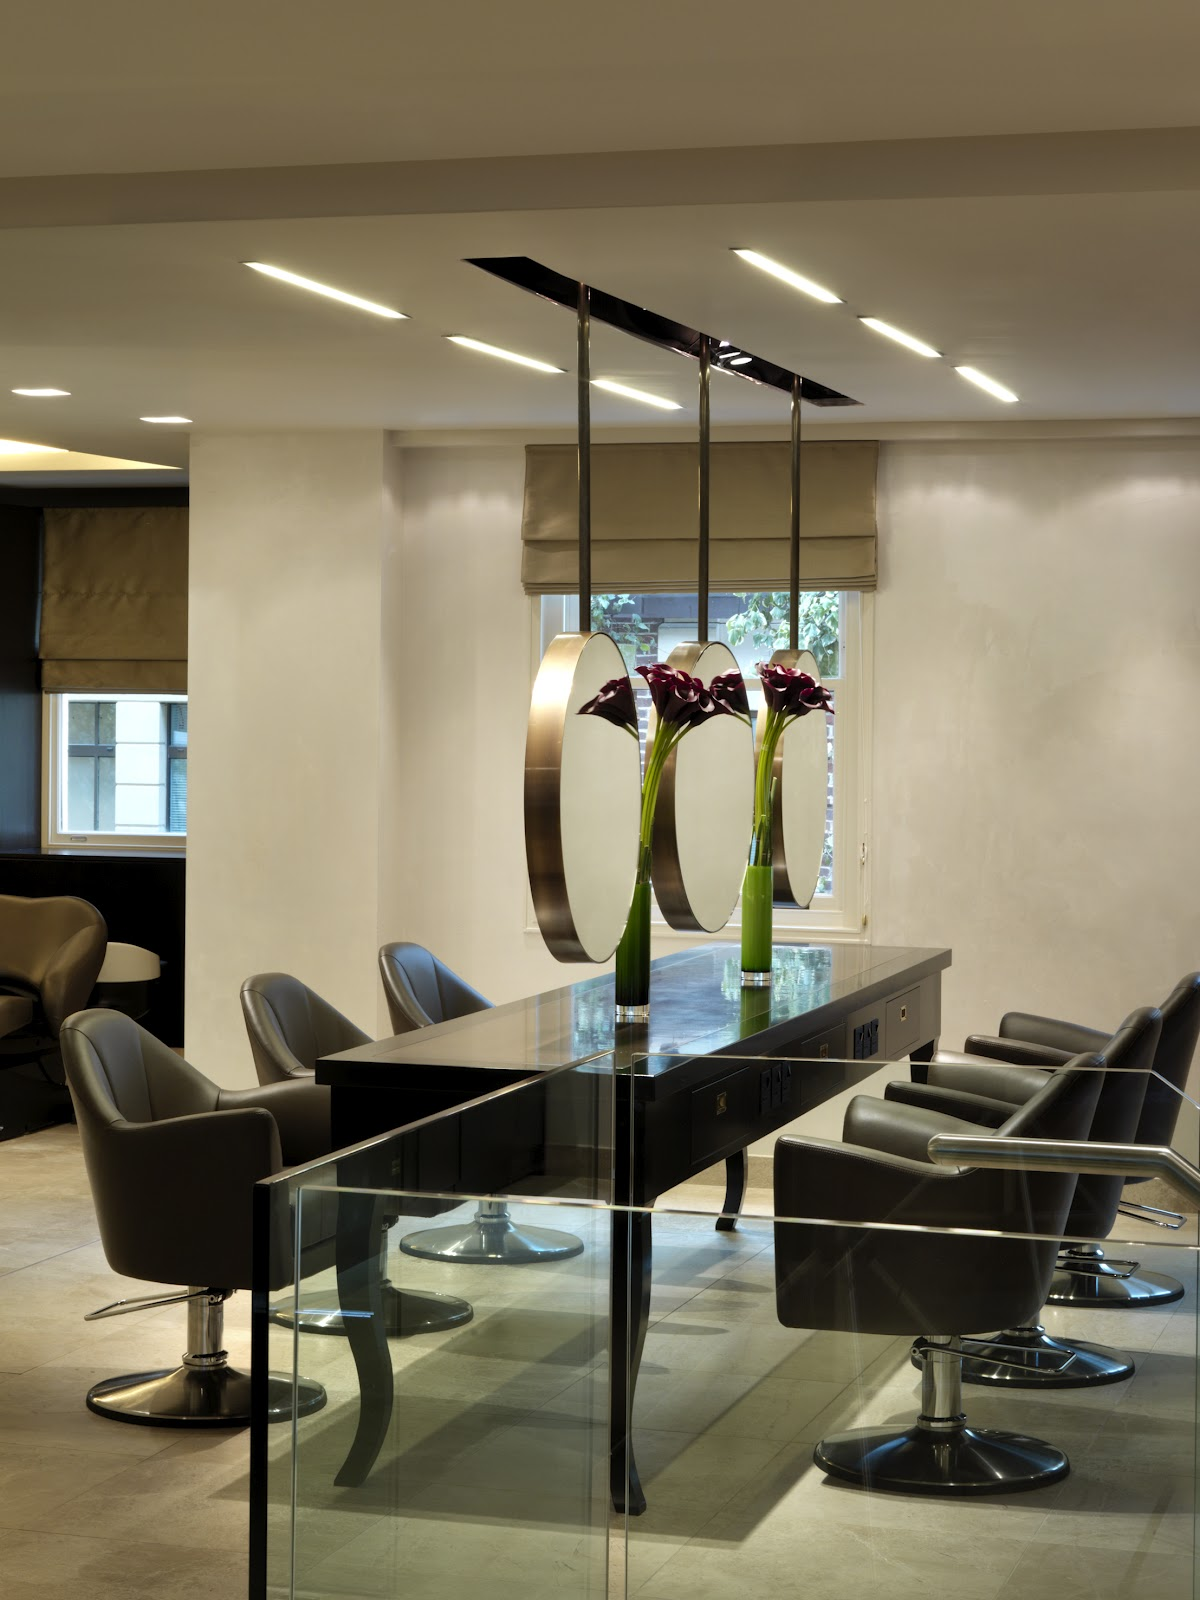
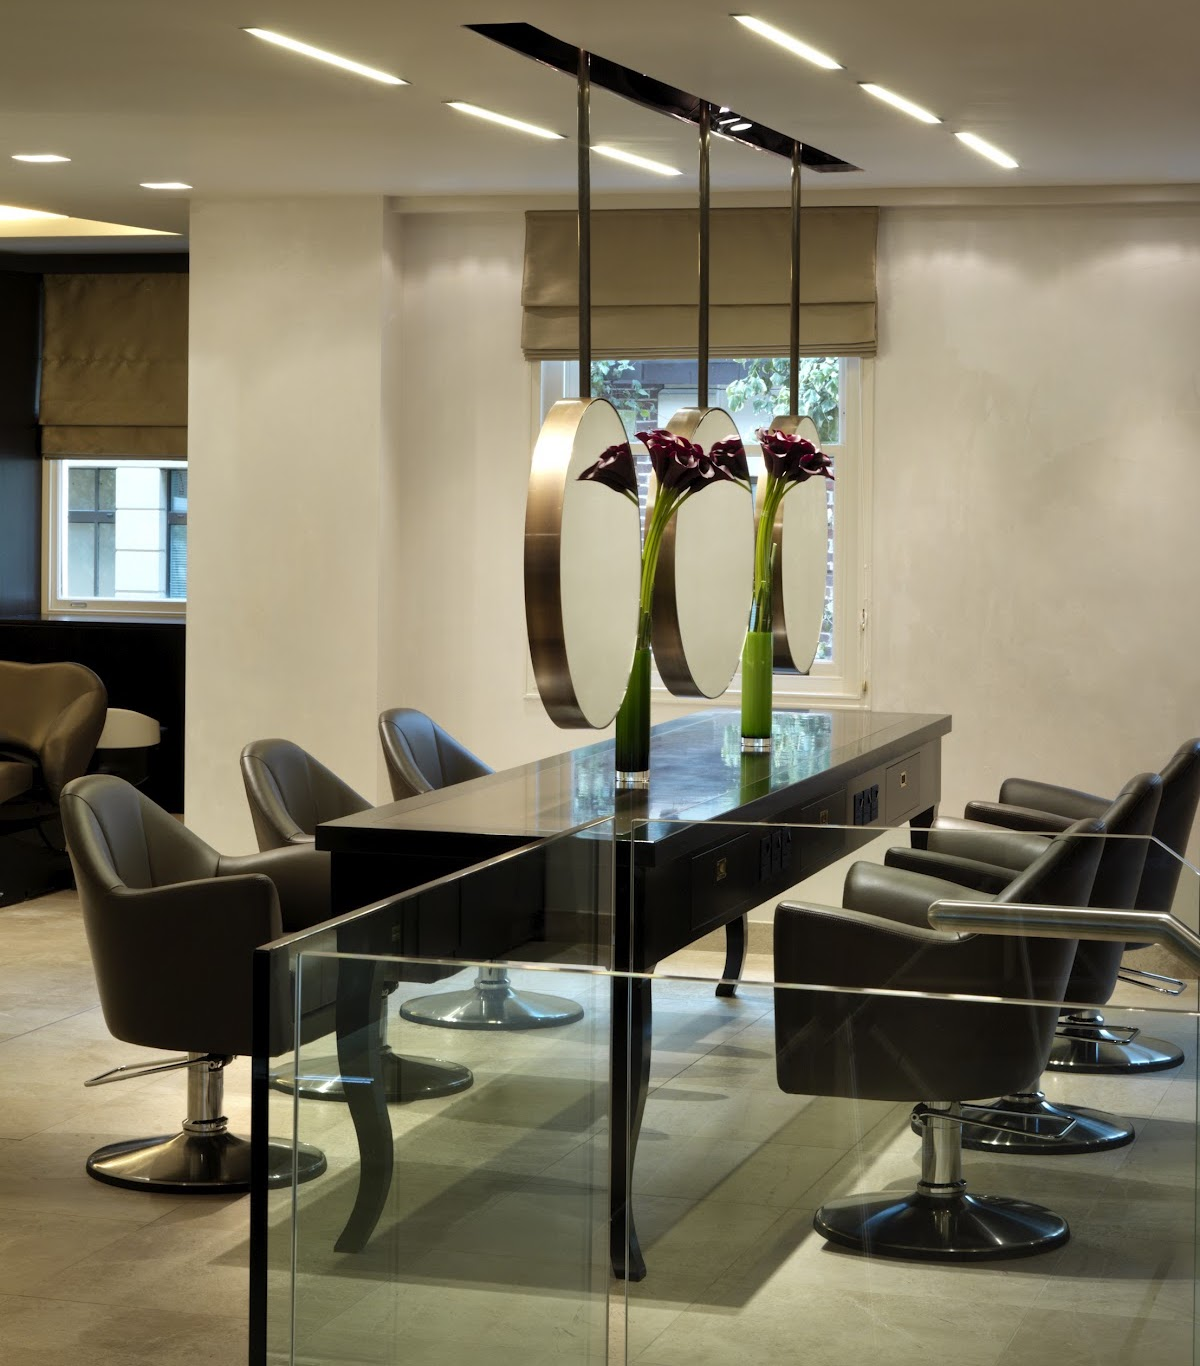
background change coiffeur
new, more modern background image

diff --git a/portfolio/coiffeur/index.html b/portfolio/coiffeur/index.html
@@ -43,7 +43,7 @@
 <!-- BANNER SPANS THE TOP OF THE PAGE -->
         <div class="break one"></div>
         <section id="welcome">
-            <img src="img/backlitHairdresser.jpeg" alt="colorful sunset" id="welcomeImg">
+            <img src="img/bg.jpg" alt="colorful sunset" id="welcomeImg">
 <!-- BUSINESS NAME -->
             <h1>Coiffeur</h1>
 <!-- BUSINESS SLOGAN -->
